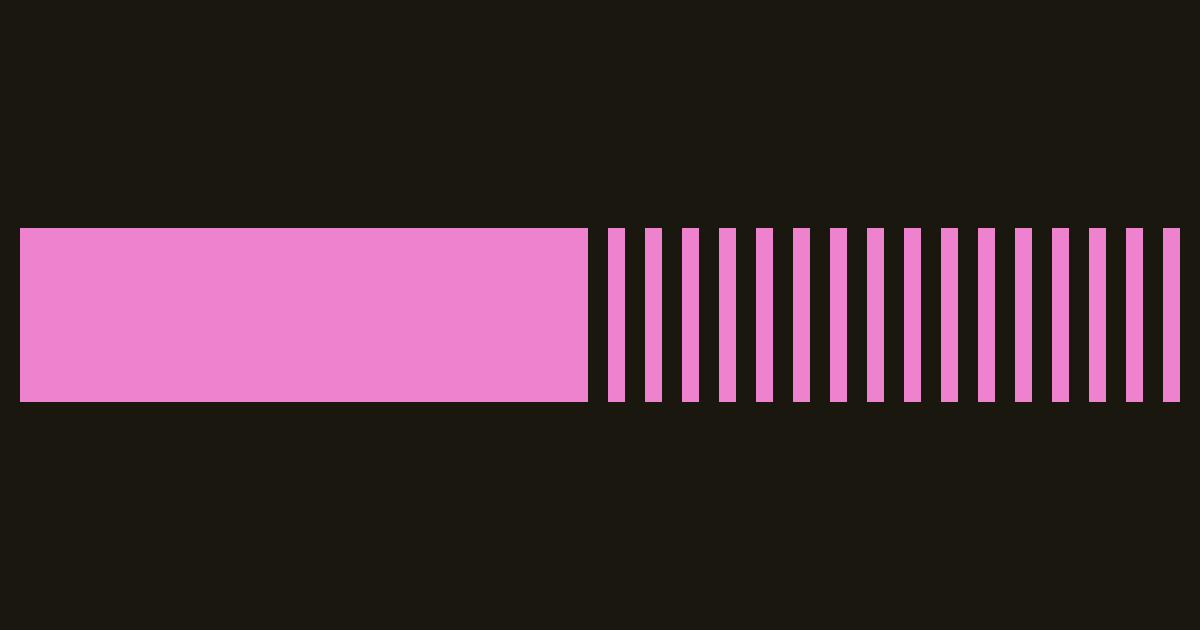
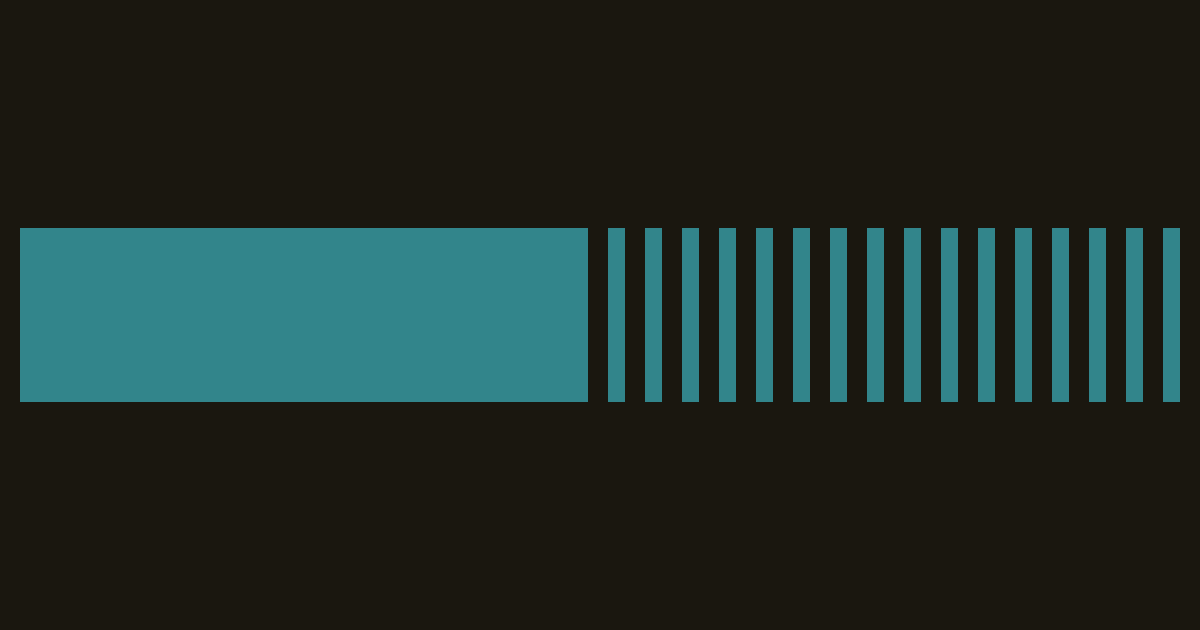
New Blog Post on 2025-02-12 00:34:35

Changed region(s): [[0.0, 0.3619, 0.9867, 0.6635]]

diff --git a/terminal.css b/terminal.css
@@ -1,7 +1,7 @@
 :root {
   --background: #1a170f;
   --foreground: #eceae5;
-  --accent: #ee82cf;
+  --accent: #32858b;
   --radius: 8;
   --font-size: 1rem;
   --line-height: 1.25em;
@@ -44,6 +44,21 @@ body {
 
 ::placeholder {
   color: color-mix(in srgb var(--foreground) 50%, black);
+}
+
+h1 {
+  text-decoration: underline;
+  text-decoration-thickness: 2px;
+  text-underline-offset: calc(var(--font-size) * 0.2);
+}
+
+h1, h2 {
+  text-transform: uppercase;
+}
+
+h1, h2, h3, h4, h5, h6 {
+  font-size: calc(var(--font-size) * 1.1);
+  letter-spacing: 0.04em;
 }
 
 h1, h2, h3, h4, h5, h6,
